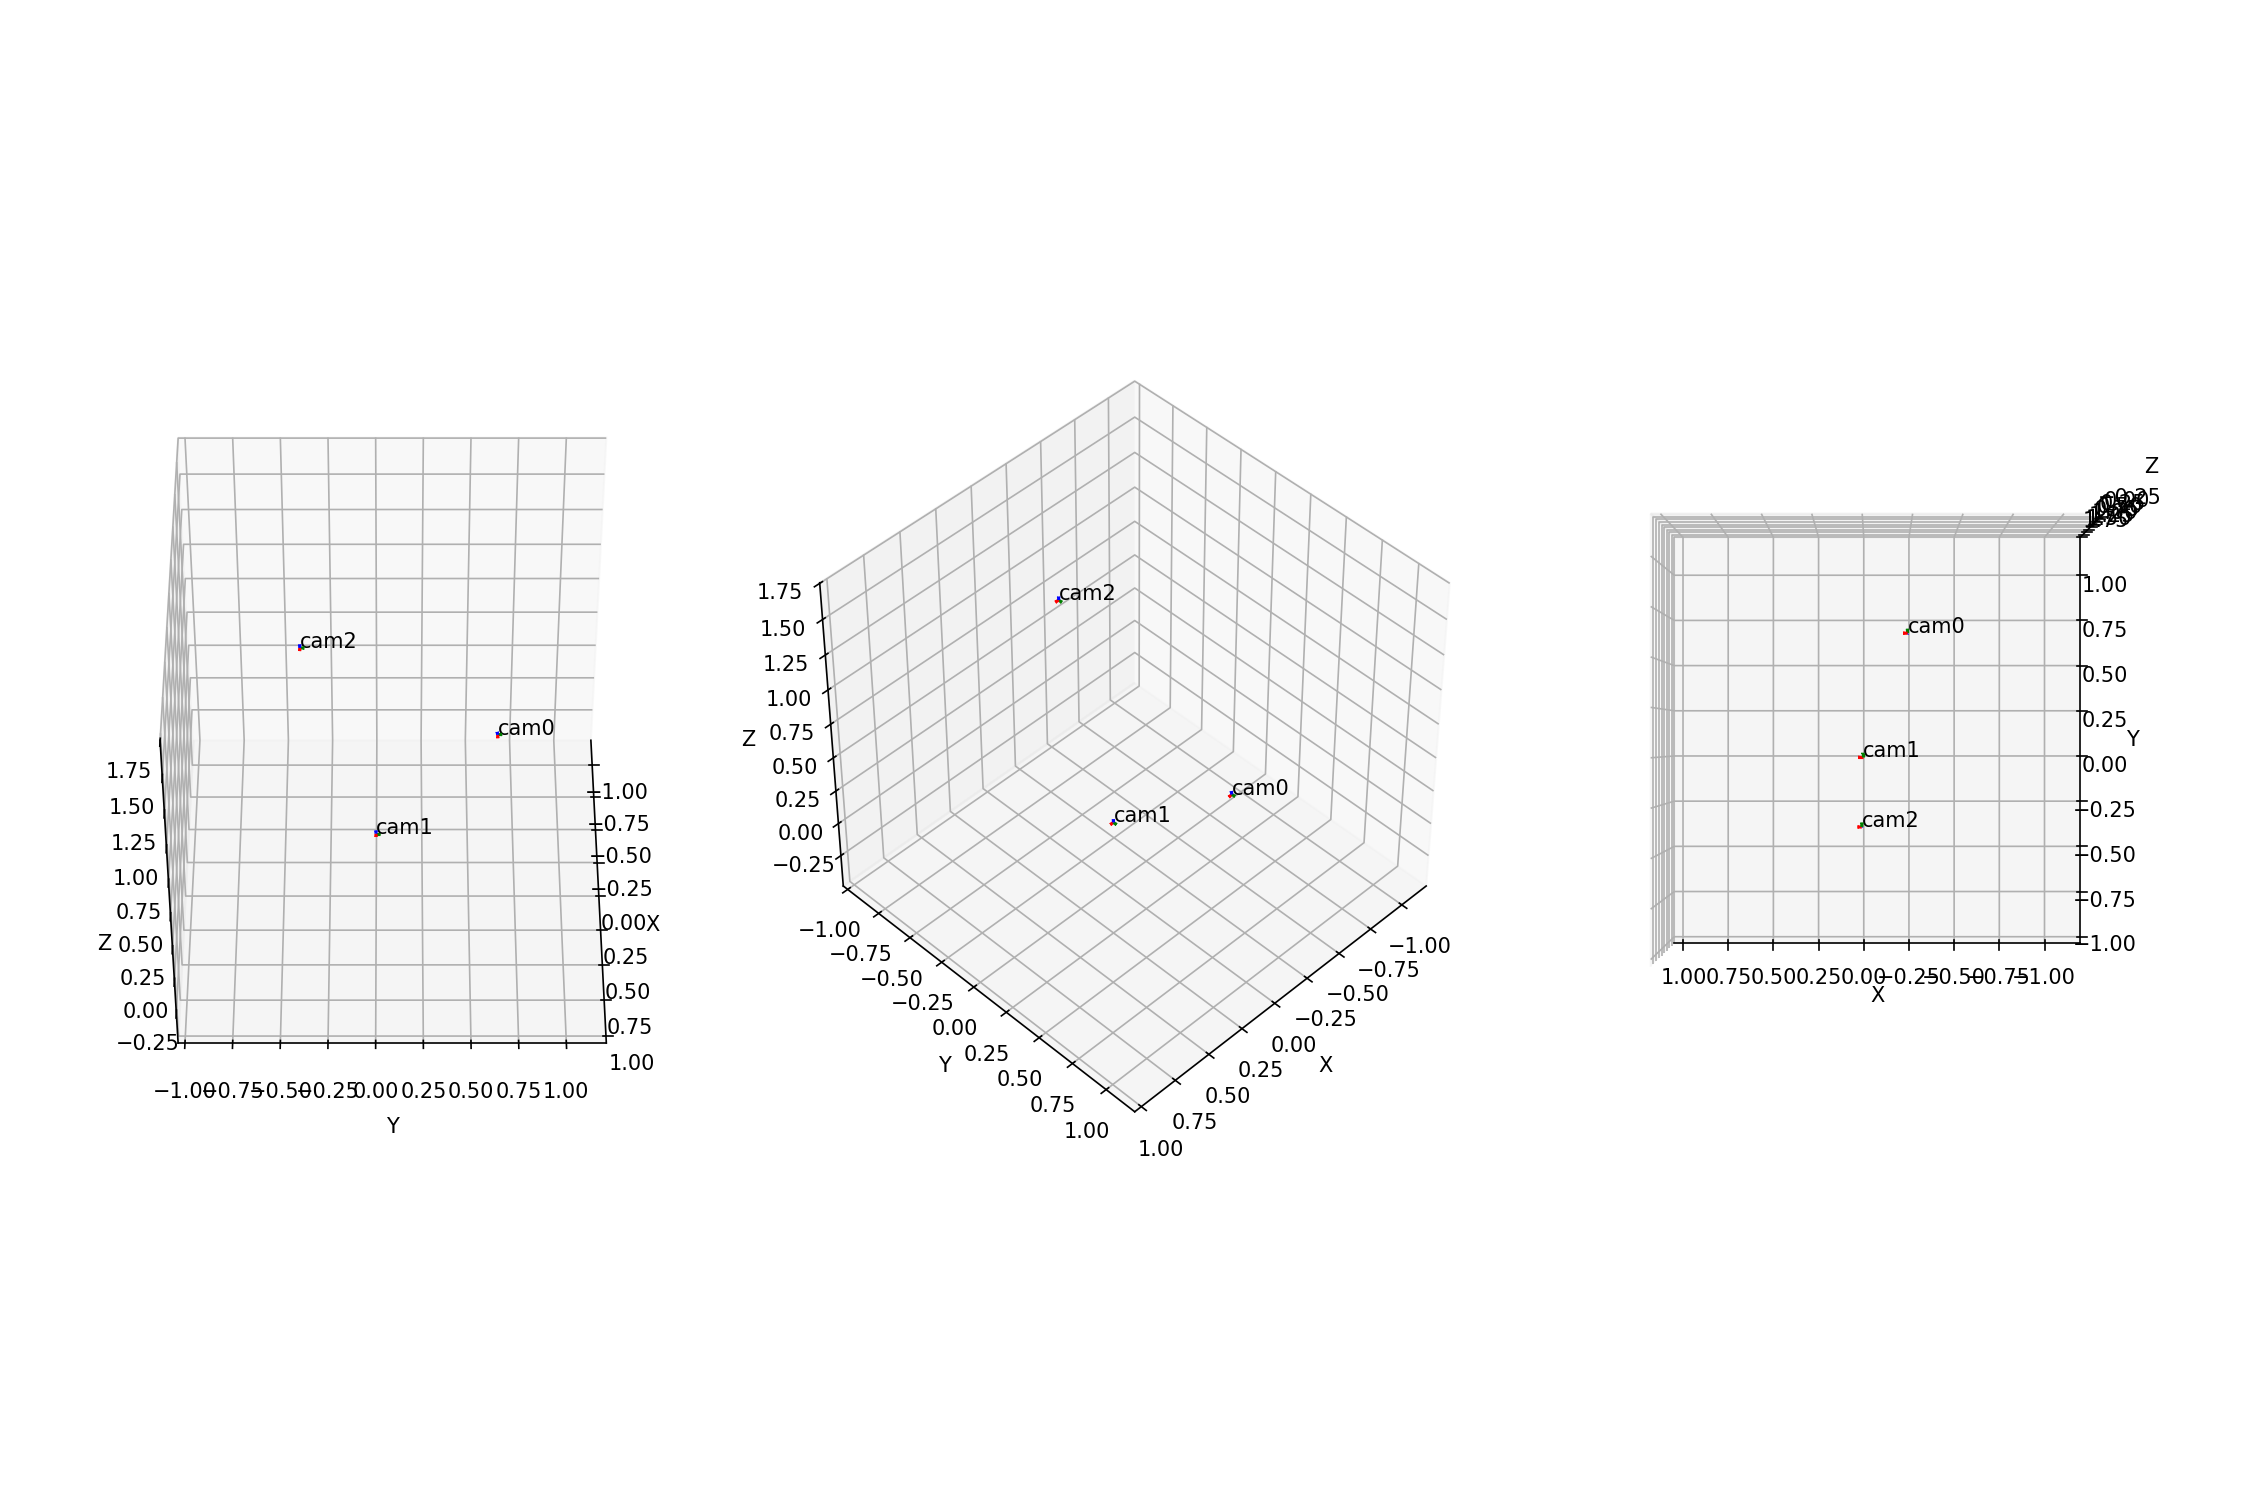
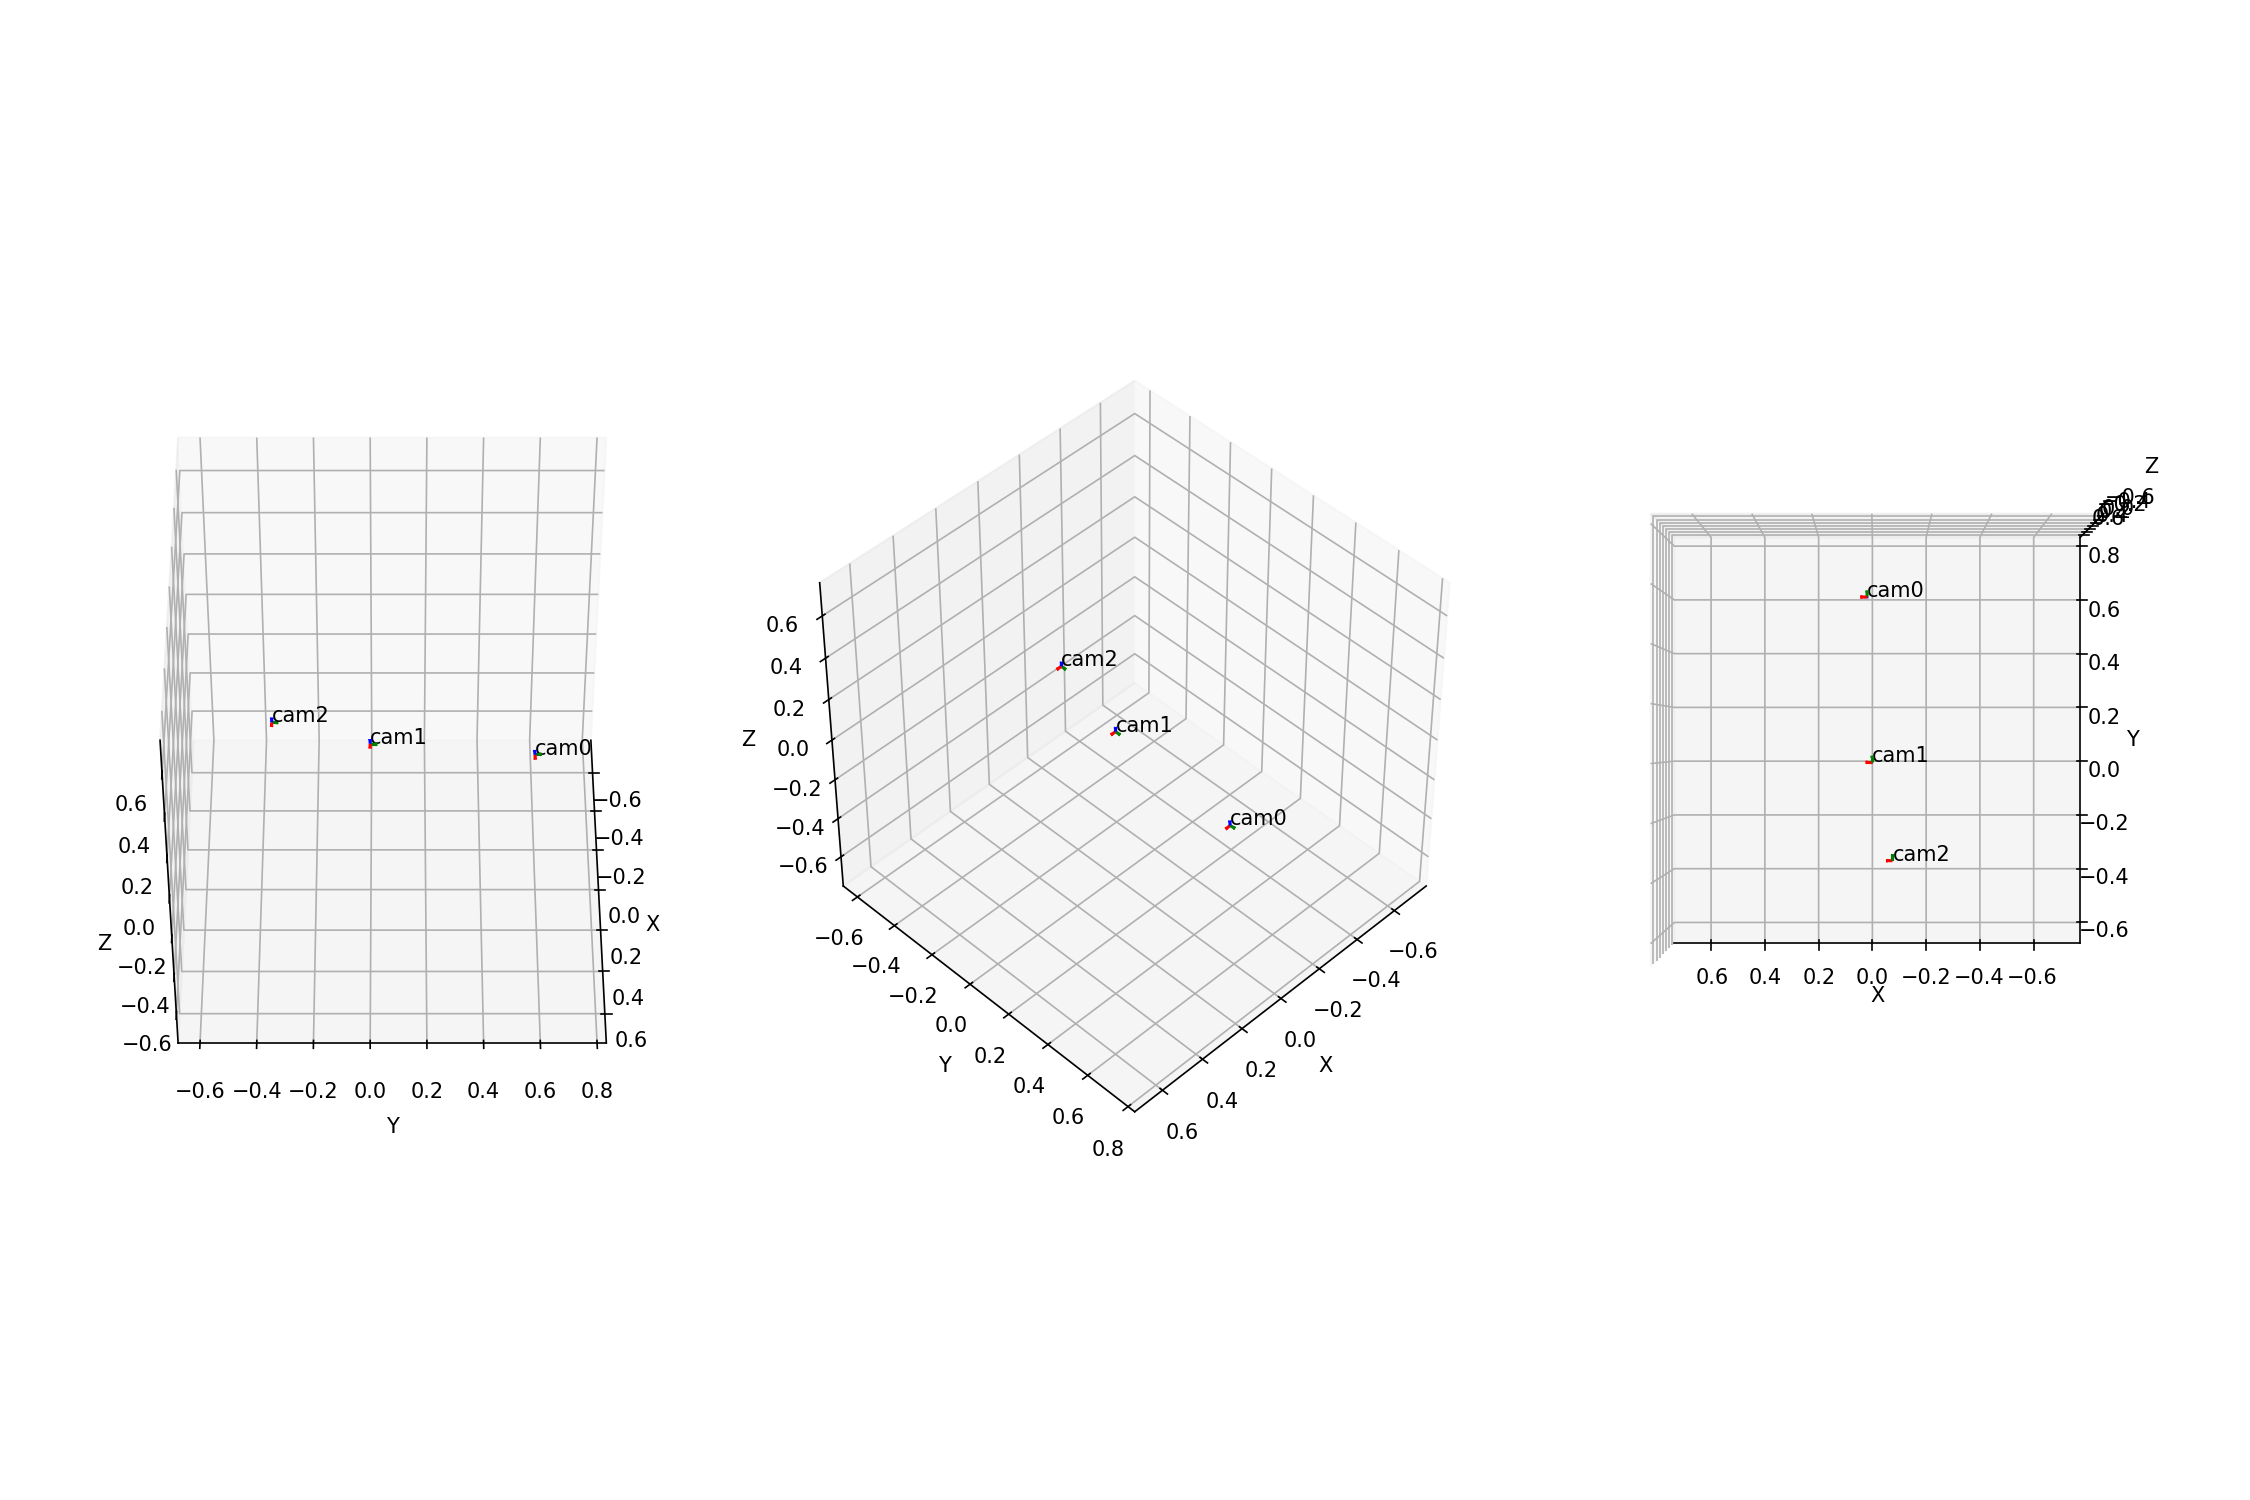
Change calibration into basic calib

diff --git a/intrinsic/intrinsic_calibration.py b/intrinsic/intrinsic_calibration.py
@@ -6,64 +6,28 @@ import torch
 import torch.nn as nn
 import torch.optim as optim
 
-def opencv_full_calib(objpoints, imgpoints, image_size, min_pts=10, min_spread_ratio=0.05):
-    # Geometric pre-filter: enough points, non-collinear, 2D spread on both axes.
-    # Weak geometry produces unstable PnP solutions that corrupt the global calib.
-    w, h = image_size
-    min_span_px = min_spread_ratio * min(w, h)
+def opencv_full_calib(objpoints, imgpoints, image_size):
+    # Minimal filter: OpenCV requires >=4 non-collinear points per view.
     objp_list, imgp_list = [], []
     for o, i in zip(objpoints, imgpoints):
-        i_arr = np.asarray(i, np.float64).reshape(-1, 2)
-        if len(i_arr) < min_pts:
+        if len(i) < 4:
             continue
         xy = np.asarray(o, np.float64)[:, :2]
         s = np.linalg.svd(xy - xy.mean(0), compute_uv=False)
         if s[1] < 1e-6 * s[0]:
             continue
-        if (np.ptp(i_arr[:, 0]) < min_span_px) or (np.ptp(i_arr[:, 1]) < min_span_px):
-            continue
         objp_list.append(np.asarray(o, np.float32))
         imgp_list.append(np.asarray(i, np.float32))
 
-    flags = 0
     rms_opencv, mtx, dist, rvecs, tvecs = cv2.calibrateCamera(
-        objp_list, imgp_list, image_size, None, None, flags=flags
-    )
+        objp_list, imgp_list, image_size, None, None)
 
-    # Robustify: drop views whose mean reprojection error exceeds max(5*median, 2 px)
-    # or whose recovered board depth is non-positive, then re-fit.
-    per_view_err = []
-    for obj_pts, img_pts, rv, tv in zip(objp_list, imgp_list, rvecs, tvecs):
-        proj, _ = cv2.projectPoints(obj_pts, rv, tv, mtx, dist)
-        d = proj.reshape(-1, 2).astype(np.float64) - np.asarray(img_pts, np.float64).reshape(-1, 2)
-        per_view_err.append(float(np.sqrt((d * d).sum(1)).mean()))
-    per_view_err = np.asarray(per_view_err)
-    depths = np.asarray([float(t[2, 0]) for t in tvecs])
-    thresh = 5.0 * float(np.median(per_view_err))
-    keep = (per_view_err < thresh) & (depths > 0)
-    # print(f"Kept {keep.sum()} points")
-    if keep.sum() < len(objp_list):
-        print(f"  dropping {len(objp_list) - keep.sum()}/{len(objp_list)} outlier views "
-              f"(thresh={thresh:.2f}px) and refitting")
-        objp_list = [o for o, k in zip(objp_list, keep) if k]
-        imgp_list = [p for p, k in zip(imgp_list, keep) if k]
-        rms_opencv, mtx, dist, rvecs, tvecs = cv2.calibrateCamera(
-            objp_list, imgp_list, image_size, None, None, flags=flags
-        )
-
-    sse = n = 0
-    for obj_pts, img_pts, rv, tv in zip(objp_list, imgp_list, rvecs, tvecs):
-        proj, _ = cv2.projectPoints(obj_pts, rv, tv, mtx, dist)
-        d = proj.reshape(-1, 2).astype(np.float64) - np.asarray(img_pts, np.float64).reshape(-1, 2)
-        sse += float((d * d).sum())
-        n += d.size // 2
-    rmse = float(np.sqrt(sse / n))
     return {
         "K": mtx,
         "dist": dist.reshape(-1).astype(np.float64),
         "rvecs": rvecs,
         "tvecs": tvecs,
-        "rmse_px": rmse,
+        "rmse_px": float(rms_opencv),
         "filtered_obj": objp_list,
         "filtered_img": imgp_list,
         "rms_opencv": float(rms_opencv),

diff --git a/extrinsic/extrinsic_calibration.py b/extrinsic/extrinsic_calibration.py
@@ -114,7 +114,28 @@ class ExtrinsicCalibration:
         T[:3, 3] = avg_trans
         self.camera_extrinsic[target_camera] = T
 
+        # Validation loss: apply the averaged extrinsic and measure per-frame residual
+        # between the predicted center-camera board pose and the directly-observed one.
+        # Translation residual is in the center-camera frame; rotation residual is the
+        # axis-angle error of R_pred^T @ R_obs expressed as xyz Euler (degrees).
+        t_res, r_res = [], []
+        for fp in frame_poses:
+            if target_camera not in fp or center_camera not in fp:
+                continue
+            T_ctr_board_obs = self._pose_to_T(*fp[center_camera][:2])
+            T_tgt_board = self._pose_to_T(*fp[target_camera][:2])
+            T_ctr_board_pred = T @ T_tgt_board
+            t_res.append(T_ctr_board_obs[:3, 3] - T_ctr_board_pred[:3, 3])
+            R_err = T_ctr_board_pred[:3, :3].T @ T_ctr_board_obs[:3, :3]
+            r_res.append(R.from_matrix(R_err).as_euler("xyz", degrees=True))
+        t_res = np.asarray(t_res)
+        r_res = np.asarray(r_res)
+
         print(f"{target_camera} -> {center_camera}: {len(Ts)} shared frames")
+        print(f"  translation residual mean (x,y,z): {t_res.mean(axis=0)}")
+        print(f"  translation residual std  (x,y,z): {t_res.std(axis=0)}")
+        print(f"  rotation residual mean (rx,ry,rz) deg: {r_res.mean(axis=0)}")
+        print(f"  rotation residual std  (rx,ry,rz) deg: {r_res.std(axis=0)}")
         print(f"  T:\n{T}")
         return T
 

diff --git a/intrinsic/basic_calib.py b/intrinsic/basic_calib.py
@@ -1,0 +1,40 @@
+"""Bare-minimum OpenCV calibration — no filtering, no refit. Sanity check."""
+
+import numpy as np
+import cv2
+from pathlib import Path
+
+
+def basic_calibrate(points_file):
+    data = np.load(points_file, allow_pickle=True)
+    obj_points = [np.asarray(a, np.float32) for a in data["obj_points"]]
+    img_points = [np.asarray(a, np.float32) for a in data["img_points"]]
+    img_size = tuple(int(x) for x in data["img_size"])
+
+    # OpenCV needs >=4 non-collinear points per view. Nothing else filtered.
+    pairs = []
+    for o, i in zip(obj_points, img_points):
+        if len(i) < 4:
+            continue
+        xy = np.asarray(o, np.float64)[:, :2]
+        s = np.linalg.svd(xy - xy.mean(0), compute_uv=False)
+        if s[1] < 1e-6 * s[0]:
+            continue
+        pairs.append((o, i))
+    obj_points = [p[0] for p in pairs]
+    img_points = [p[1] for p in pairs]
+
+    rms, K, dist, rvecs, tvecs = cv2.calibrateCamera(
+        obj_points, img_points, img_size, None, None)
+
+    print(f"\n{Path(points_file).stem}  ({len(obj_points)} views, img_size={img_size})")
+    print(f"  RMS (OpenCV) = {rms:.4f} px")
+    print(f"  K =\n{K}")
+    print(f"  fx/fy = {K[0,0]/K[1,1]:.4f}   cx={K[0,2]:.2f}  cy={K[1,2]:.2f}")
+    print(f"  dist = {dist.ravel()}")
+    return K, dist, rms
+
+
+if __name__ == "__main__":
+    for npz in sorted(Path("../points/air").glob("cam*.npz")):
+        basic_calibrate(str(npz))
